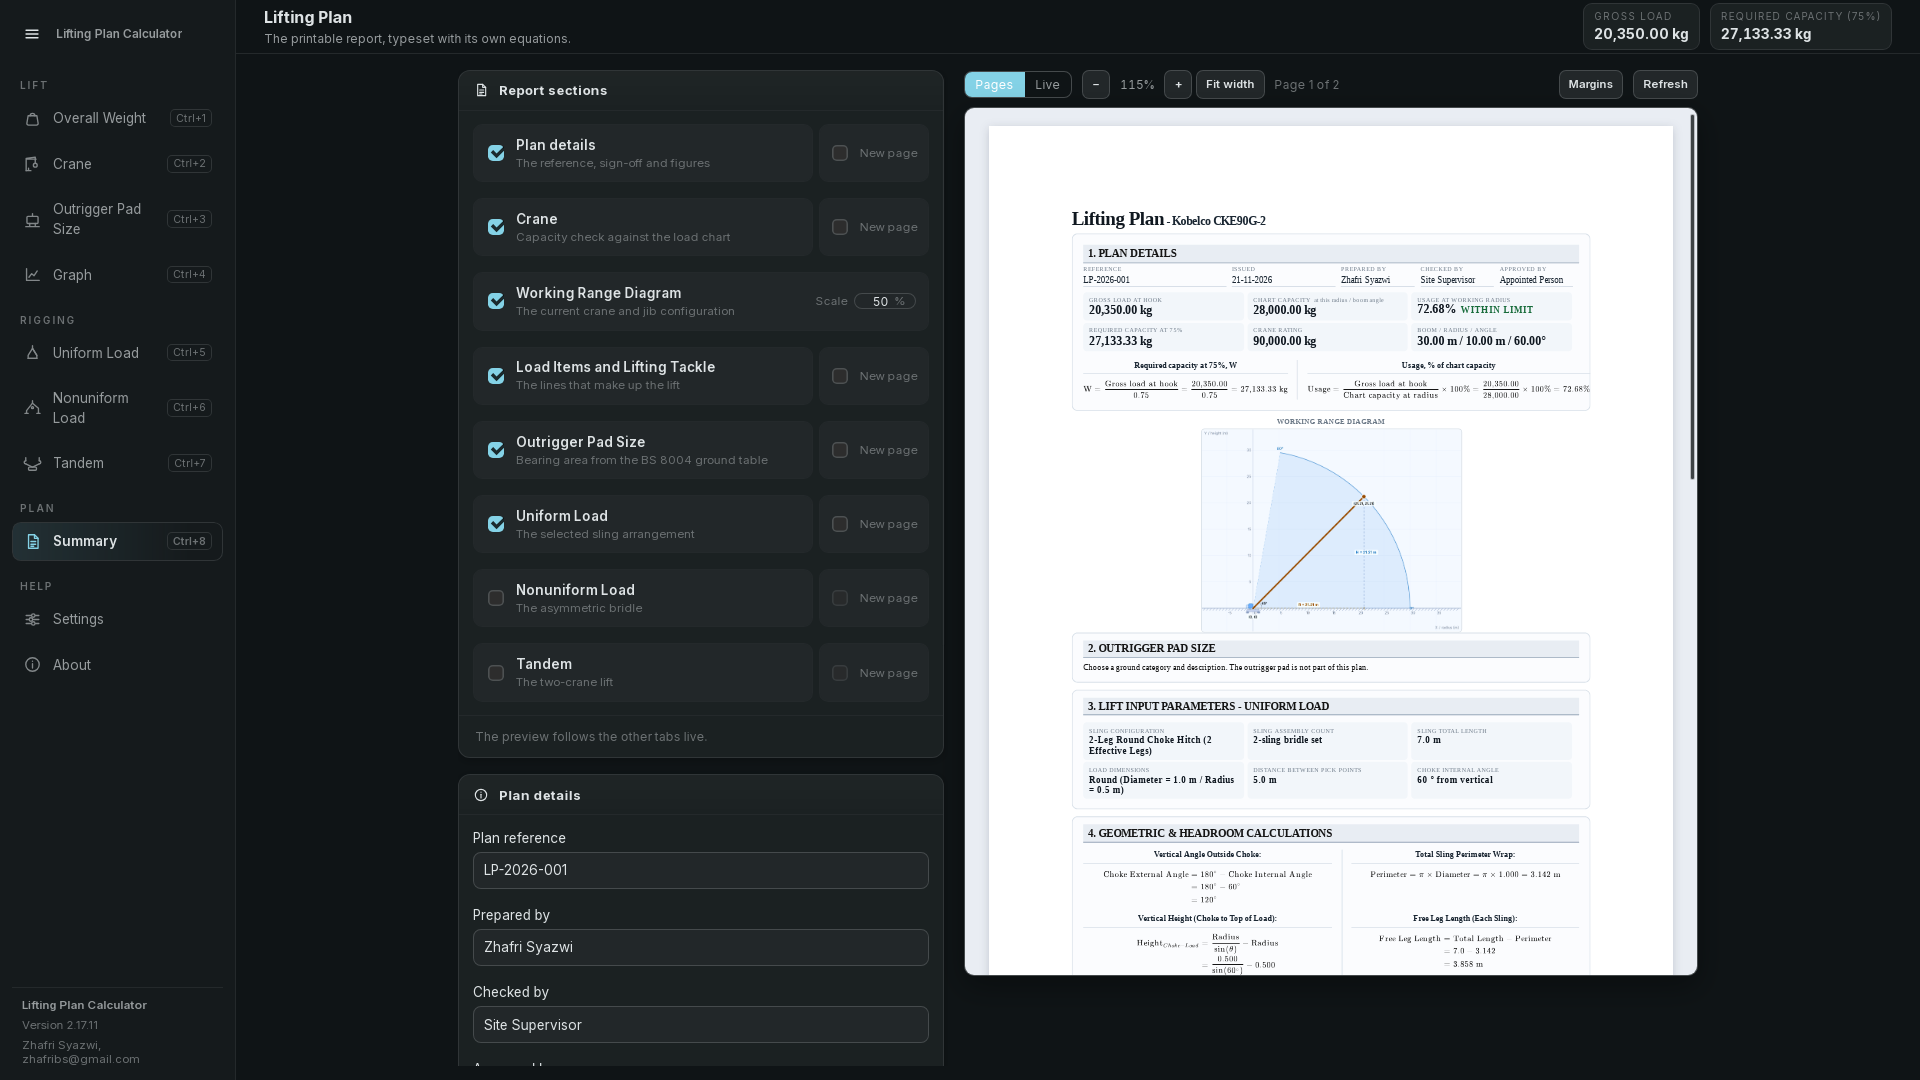
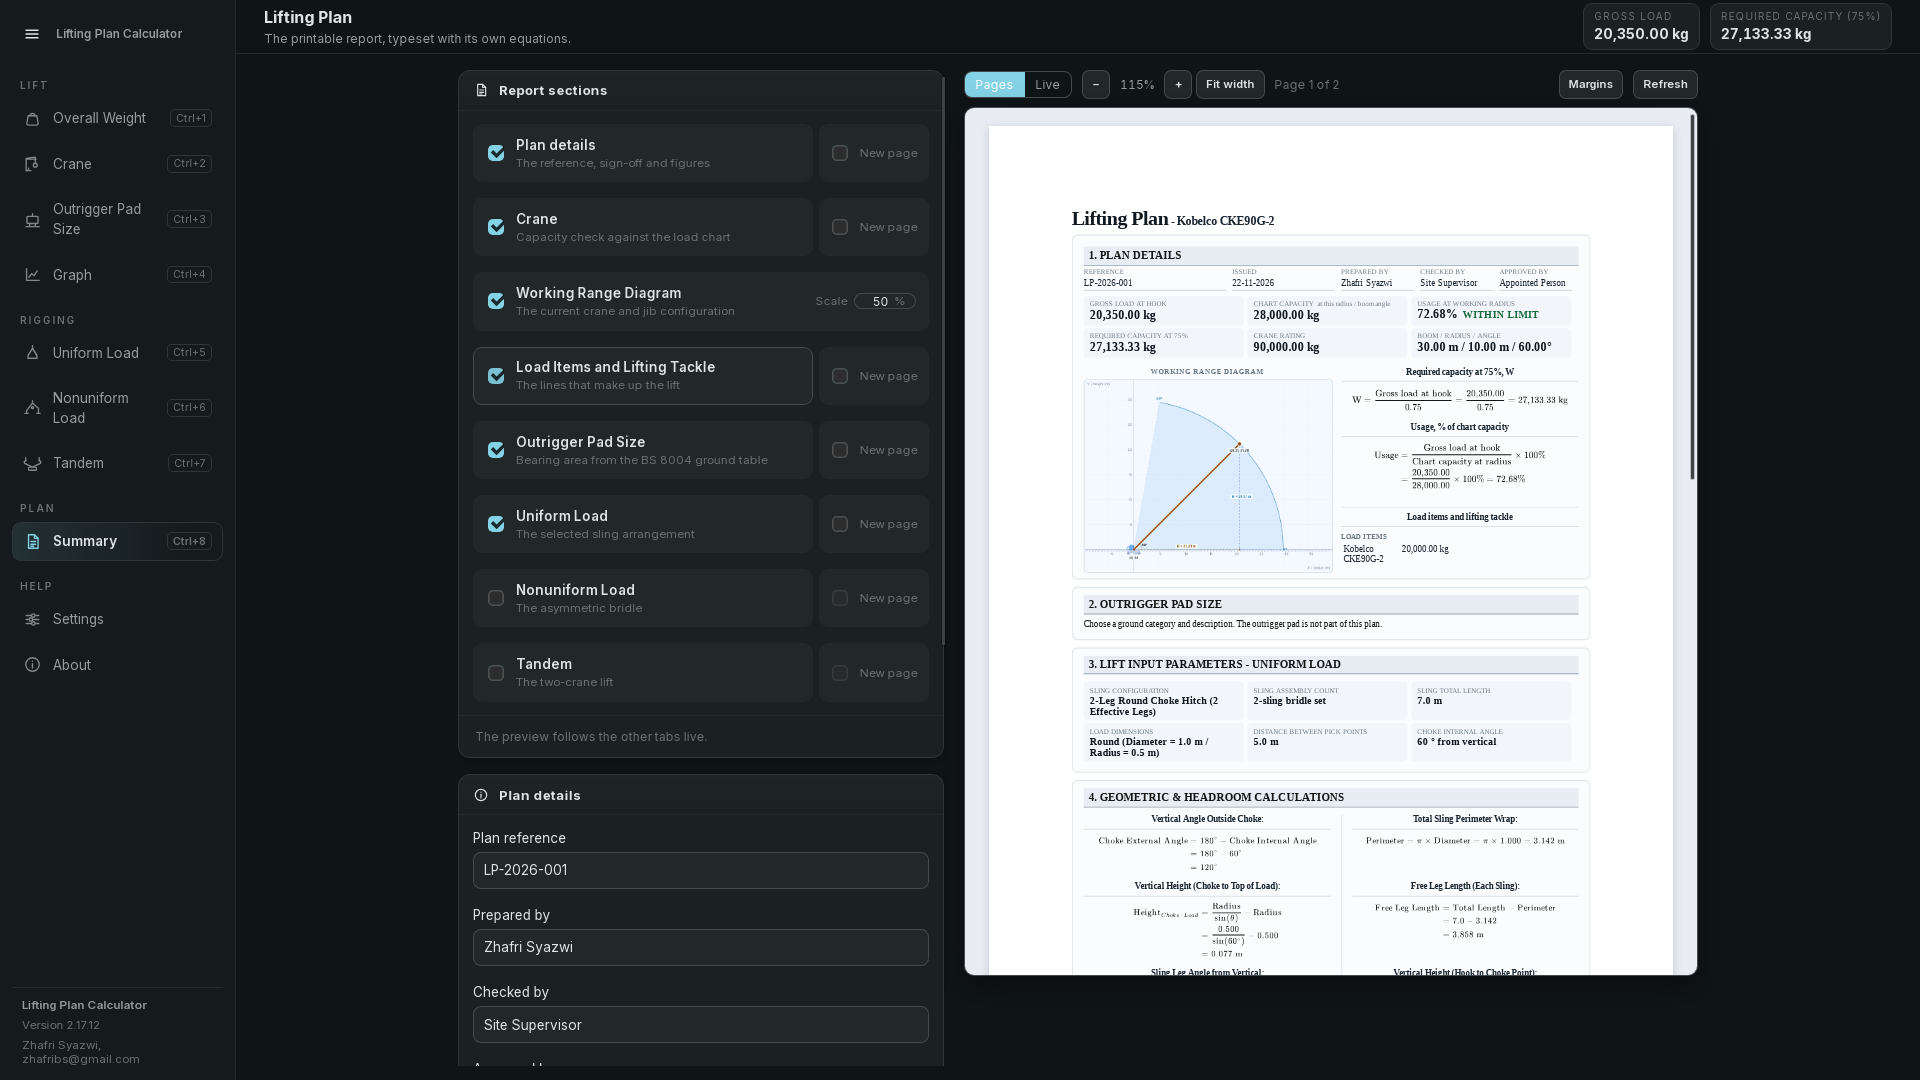
chore(release): 2.17.12

Changed region(s): [[0.5625, 0.1833, 0.8125, 0.9167], [0.75, 0.6111, 0.7812, 0.6417]]

diff --git a/docs/releases/v2.17.12.md b/docs/releases/v2.17.12.md
@@ -1,0 +1,53 @@
+# Lifting Plan Calculator 2.17.12
+
+**Released 22 November 2026** · Linux (AppImage, deb, rpm, Arch, Flatpak) · Windows 10/11 (x64)
+
+The plan header is one box: the diagram, its workings and the line lists now
+read together, with the workings taking the room they need. No calculation
+changed.
+
+## Changed
+
+- **One box for the plan header.** The working range diagram and the Load Items
+  and Lifting Tackle lists sit inside the Plan details border.
+- **The diagram takes the left, the workings the right.** At the default 50%
+  the diagram leaves room, so Required capacity, Usage and the line lists stack
+  on its right. Each working stays at most two lines.
+- **A readable fallback.** At 100% — or whenever the diagram leaves no room —
+  the workings drop under it: Required capacity and Usage side by side, two
+  lines each, with the lists below.
+- **The list heading matches.** Load items and lifting tackle now uses the same
+  bold label as the two workings.
+
+## Notes
+
+- No arithmetic, verdict or limit changed. The Usage working is split at its
+  equals sign when space is tight; the numbers and words are the same.
+- The Windows installer still carries the WebView2 bootstrapper.
+
+## Download
+
+| Platform | File |
+| --- | --- |
+| Linux (AppImage) | `Lifting-Plan-Calculator-2.17.12-linux-x86_64.AppImage` |
+| Linux (delta update) | `Lifting-Plan-Calculator-2.17.12-linux-x86_64.AppImage.zsync` |
+| Debian / Ubuntu | `Lifting-Plan-Calculator-2.17.12-linux-amd64.deb` |
+| Fedora / RHEL | `Lifting-Plan-Calculator-2.17.12-linux-x86_64.rpm` |
+| Arch Linux | `Lifting-Plan-Calculator-2.17.12-linux-x86_64.pkg.tar.zst` |
+| Any Linux (Flatpak) | `Lifting-Plan-Calculator-2.17.12-linux-x86_64.flatpak` |
+| Windows 10/11 (x64) | `Lifting-Plan-Calculator-2.17.12-windows-x86_64.msi` |
+| Windows 10/11 (x64) | `Lifting-Plan-Calculator-2.17.12-windows-x86_64-setup.exe` |
+| Any | `SHA256SUMS.txt` (signed) |
+
+## Compatibility and upgrade notes
+
+- AppImage and packages: glibc 2.35 floor — Ubuntu 22.04+, Fedora 36+, Arch.
+- Windows: Windows 10 or 11, x64, with the WebView2 runtime; the installer
+  carries its bootstrapper.
+- Updating from 2.17.11 keeps every setting.
+
+**Scope** — a calculation aid for a competent person, not a certified lift plan or an approval. [Scope of use](https://github.com/zhafrisbs/lifting-plan-calculator#scope-of-use)
+
+---
+
+**Links** — [Changelog](https://github.com/zhafrisbs/lifting-plan-calculator/blob/main/CHANGELOG.md) · [Read me](https://github.com/zhafrisbs/lifting-plan-calculator#readme) · [Report a bug](https://github.com/zhafrisbs/lifting-plan-calculator/issues/new/choose) · [Security](https://github.com/zhafrisbs/lifting-plan-calculator/security/policy) · [License](https://github.com/zhafrisbs/lifting-plan-calculator/blob/main/LICENSE)

diff --git a/docs/council/decisions/0059-plan-block-layout.md b/docs/council/decisions/0059-plan-block-layout.md
@@ -1,0 +1,56 @@
+# 0059 — The plan block, diagram and workings share one box
+
+**Status:** accepted
+**Date:** 2026-11-22
+**Release:** v2.17.12
+**Change:** `src-tauri/src/report.rs`, `src-tauri/src/report_style.rs`,
+`CHANGELOG.md`
+**Seats:** three seats, each covering charter roles: Safety & QA (Domain Safety
+Engineer, QA & Test Engineer), Security & Build (Application Security Engineer,
+Build & Platform Engineer), Design & Steward (Technical Writer, Product Manager,
+Maintainer). Bar 8/10 per seat. The implementer did not score.
+
+## Proposal
+
+The plan details, the working range diagram, the two crane workings and the
+line lists printed as separate cards. They are one plan header, so they belong
+inside one border, with the widest content taking the room it needs.
+
+## What changed
+
+- The diagram, the two workings and the line lists now sit inside the Plan
+  details section.
+- The diagram takes the left of the row. When it leaves room on its right, the
+  workings and the lists stack there; each working is at most two lines.
+- When the scale leaves no room (100%, or a narrow page), they drop under the
+  diagram: Required capacity and Usage side by side, the lists below.
+- The lists heading uses the same bold 7 pt label as the two workings.
+- The workings keep the report's normal equation size; no formula was shortened
+  beyond the Usage line's two-line split at its equals sign.
+- A page break ticked for the line lists still gives them their own section.
+
+## Evidence
+
+- 1440×950 in the Pages preview at 50%: diagram left, Required capacity, Usage
+  and the lists right, no clipping.
+- At 100%: the workings wrap below, side by side, and the lists follow.
+- `cargo test --all-targets` 279 passed; clippy clean. The Usage reference
+  string is compared with the alignment markup removed, so its literals did
+  not change.
+- 1920×1080 print preview checked for the refreshed screenshot.
+
+## Scores
+
+| Seat | Score | Why it passed |
+| --- | --- | --- |
+| Safety & QA | 8/10 | no figure, verdict or limit changed; the working strings keep their literals |
+| Security & Build | 8/10 | report markup and CSS only; no new call, write or dependency |
+| Design & Steward | 8/10 | one box for one plan, with a readable fallback when the diagram takes the page |
+
+**Mean 8.0/10** — at the bar.
+
+## Known limits
+
+- The right column is tight at 50%; the line lists sit close together but fit.
+- The two workings only pair side by side in the wrapped fallback, not beside
+  the diagram.

diff --git a/CHANGELOG.md b/CHANGELOG.md
@@ -1,4 +1,4 @@
-## [Unreleased]
+## [2.17.12] - 2026-11-22
 
 ### Changed
 
